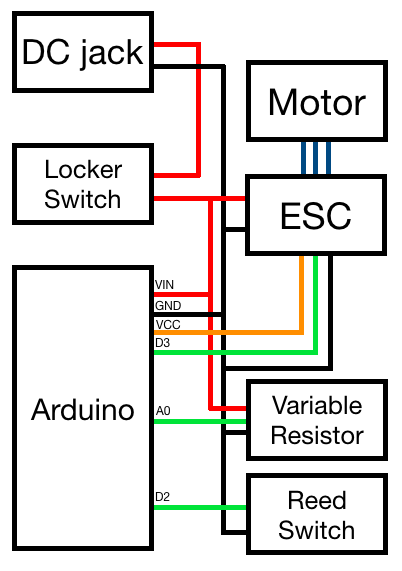
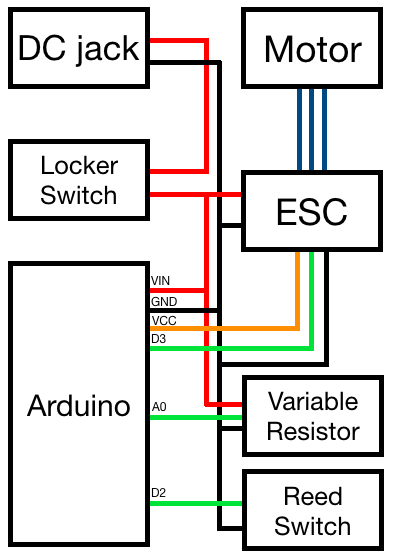
add diagram

Changed region(s): [[0.0, 0.0, 0.9673, 1.0]]

diff --git a/README.md b/README.md
@@ -54,6 +54,8 @@ Opensource ([CC BY-NC-SA 2.5](https://creativecommons.org/licenses/by-nc-sa/2.5/
 
 ### <a name="wire"></a>Wirings
 
+![diagram](https://raw.githubusercontent.com/hisashin/NinjaFuge/master/markdown/diagram.png)
+
 ### <a name="source"></a>Source code
 
 
